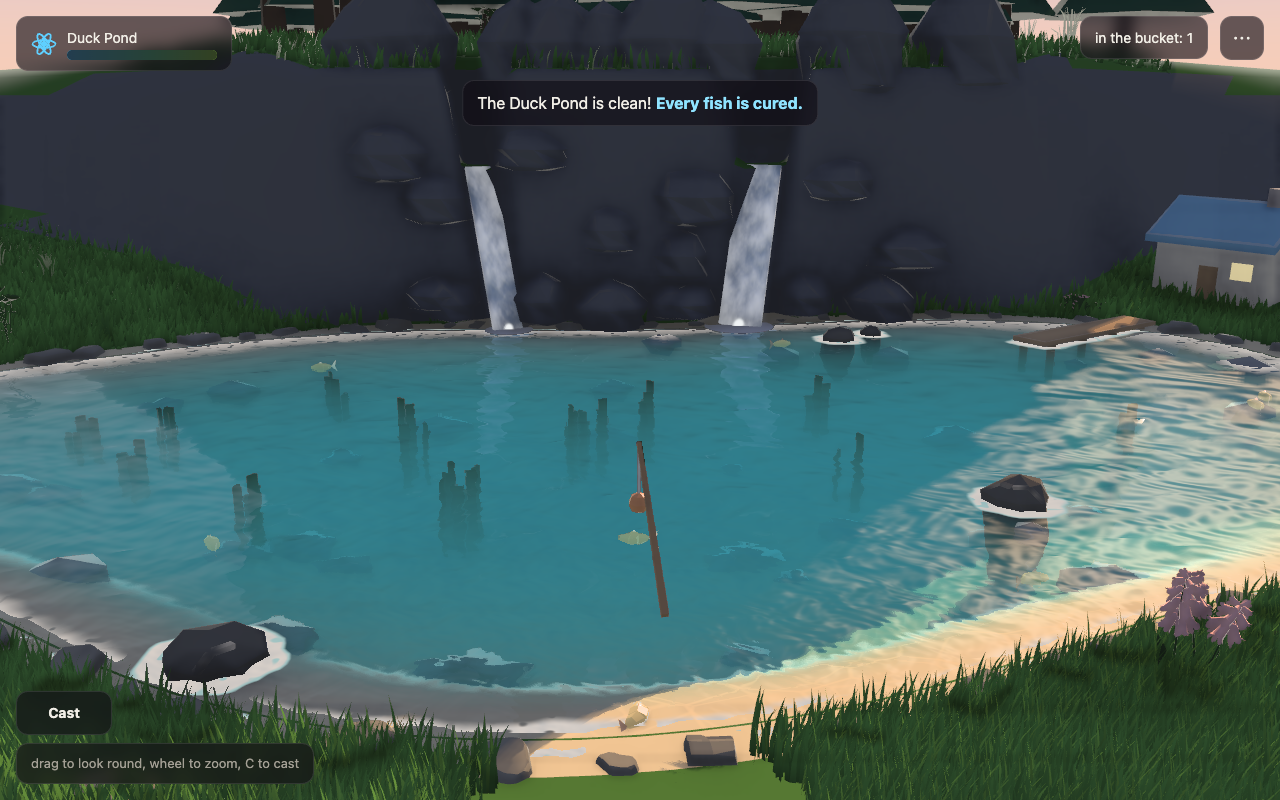
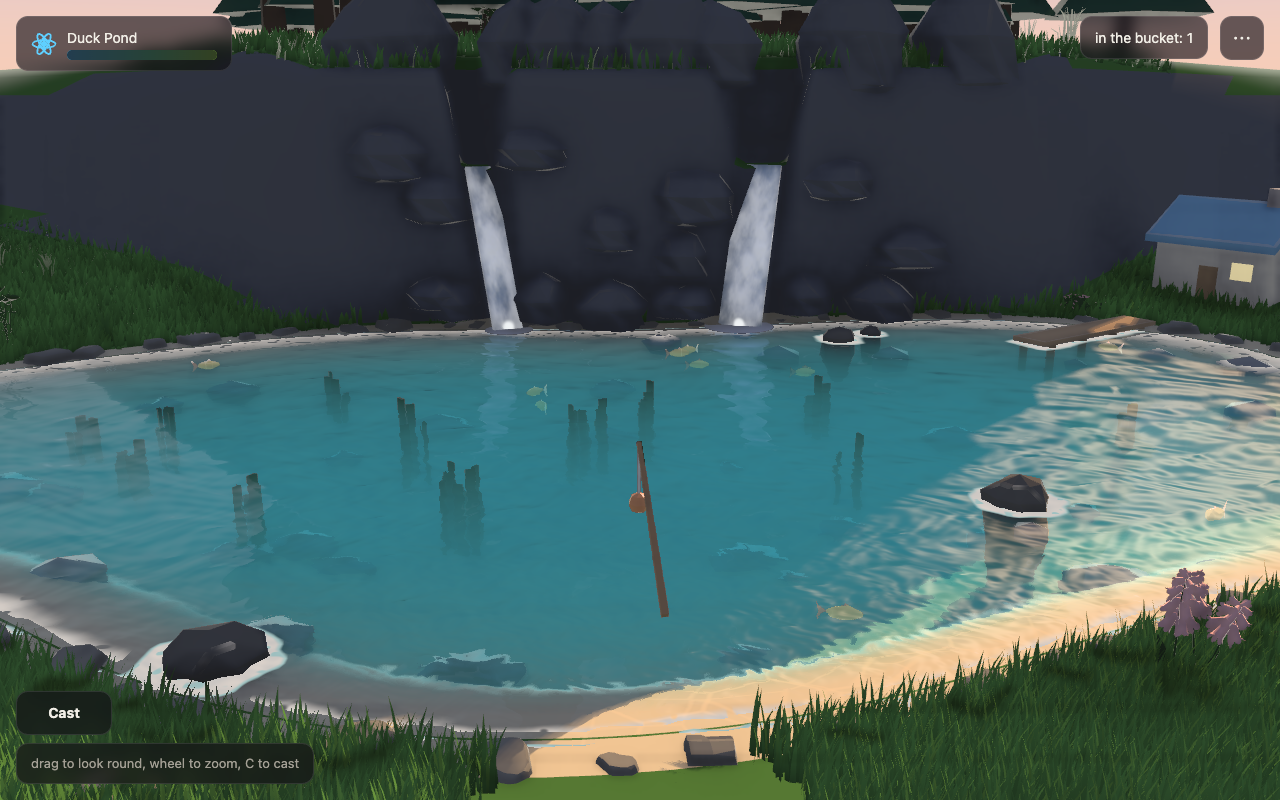
The pond is seen to heal: the water clears over half a minute after a cure, in steps too fine to see
The second part of the pond healing gradually (`docs/heal.md`). The page
draws the water, its look and a splash's droplets at `waterDirt` rounded to
`HEAL.step` (1/480 of sick to clean, worked out in one place,
`waterShown`), and hands the water's groups over only when that rounded
value moves: about forty times over a cure's thirty seconds, and never in
a frame where it has not moved, which only compares two numbers. A
handover is synchronous on each step, so a batch of steps leaves the water
where it should be, and the GPU's wait for it is shared, so handovers never
queue their waits. The gauge still counts the cures and steps at once.
`state()` tells `waterDirt`, and `waterHandovers()` counts the handovers.

Measured, headless, through a heal from five cured: the GPU frame stayed
at 4.1 to 4.7 ms against 3.9 to 4.4 with no heal (budget 8), with 42
handovers (boot, the cure and forty steps). The download rose 179 bytes.
Boot read 1,143 ms in a full check on a busy machine; timed in turn with
its parent it read 945, 911 and 961 against 1,004, 956 and 1,139, no
slower, so the quiet 756 is kept and the baseline carries the bytes only.
The bench read 30 to 45% slow while another project's tests ran, and
within 5% once the machine was quiet. The clean-pond pictures are now
taken thirty seconds after the twelfth cure, so they show the healed pond;
the "clean!" toast has gone by then, and its words are held by the
end-to-end test instead. Both were written again and looked at.
[…]

diff --git a/src/main.ts b/src/main.ts
@@ -20,9 +20,10 @@ import { Gesture, type PointerGesture } from './gesture';
 import { CastDraw, LINE_COLOURS, type Aim } from './castdraw';
 import { FISH_PARTS, FishDraw } from './fishdraw';
 import { frameCost } from './frame-cost';
+import { quantised } from './heal';
 import { castWords } from './castwords';
 import { Game, type GameEvents } from './game';
-import { PHONE, SPLASH_CAPACITY, SWIM, VIEWS, WATER_PACE, framingFor, type ViewName } from './lake';
+import { HEAL, PHONE, SPLASH_CAPACITY, SWIM, VIEWS, WATER_PACE, framingFor, type ViewName } from './lake';
 import { TIMES, bakeLooks, light, looksBaked, nearestTime, paintFor, type TimeOfDay } from './look';
 import { nextMode, orbits, wording, type Mode, type ModeEvent } from './mode';
 import { waterPoint } from './pick';
@@ -101,8 +102,8 @@ async function main() {
   const events: GameEvents = {
     splashed(x, y, size) {
       log(`splashed ${x.toFixed(1)},${y.toFixed(1)}`);
-      // the droplets thrown up, once, in the lake's colour as it is now
-      renderer.emit(splashBurst(x, y, size, game.contamination));
+      // the droplets thrown up, once, in the colour the water is drawn at (the quantised heal), so they match what they land on
+      renderer.emit(splashBurst(x, y, size, waterShown()));
     },
     nibbled: () => log('nibbled'),
     bitten: () => {
@@ -238,28 +239,60 @@ async function main() {
   /** Whether the screen was taller than wide when the camera was last put at a view. */
   let tall = false;
   let watered: number | null = null;
+  /** How many times the water's groups have been handed over since boot: a count, for the test API. */
+  let handovers = 0;
+  /** The wait on `prepare` that is under way, if one is, and how many handovers have asked for one while it ran: see `prepared`. */
+  let preparing: Promise<void> | null = null;
+  let prepareAsked = 0;
   /** How many fish were cured when the fish's groups were last handed over, since their colour and glow go over only with the groups. */
   let curedDrawn = -1;
+  /** The dirt the water is drawn at: the heal's value in whole steps, worked out here and nowhere else, so the groups and the uniforms never differ. */
+  function waterShown(): number {
+    return quantised(game.waterDirt, HEAL.step);
+  }
   /** The water's finish and the rocks' paint, at the contamination, the time and the settings as they stand: uniforms, so written on any change and nothing recompiles. */
   function finish() {
-    const water = style.clear(game.contamination, settings.caustics === 'on', time);
+    const water = style.clear(waterShown(), settings.caustics === 'on', time);
     rippleLife = water.ringLife ?? 0;
     renderer.look = { ...renderer.look, clear: water, paint: paintFor(settings.paint) };
   }
   /** The water made as clear as the game says it is: its groups and the fish's handed over again when the contamination or the number of cured fish has changed, once a change and never once a frame. */
   async function showWater() {
     const cured = game.fish.curedCount();
-    if (watered !== game.contamination || curedDrawn !== cured) {
-      watered = game.contamination;
+    const dirt = waterShown();
+    if (watered !== dirt || curedDrawn !== cured) {
+      watered = dirt;
       curedDrawn = cured;
-      const water = style.groups(game.contamination);
+      handovers++;
+      const water = style.groups(dirt);
       fishSlot = water.length;
       // what floats rides the swells the water is drawn with, at the water's own pace
       casting.surface = surfaceOf(style.waves, MM_PER_UNIT, WATER_PACE);
       renderer.setDynamic([...water, ...fish.groups(game.fish.cured), ...casting.groups()]);
     }
     finish();
-    await renderer.prepare();
+    await prepared();
+  }
+  /**
+   * `renderer.prepare()` as one wait at a time: a handover made while one is under way (a heal's steps stepped faster
+   * than the GPU settles, as the test API does) does not start a second, it asks for one more when the first ends, so
+   * the frames queue nothing and the last handover is always the one waited on.
+   */
+  function prepared(): Promise<void> {
+    if (preparing) {
+      prepareAsked++;
+      return preparing;
+    }
+    preparing = (async () => {
+      let seen: number;
+      do {
+        seen = prepareAsked;
+        await renderer.prepare();
+      } while (prepareAsked !== seen);
+    })().finally(() => {
+      preparing = null;
+    });
+    return preparing;
   }
   /** The lake made as dirty as that, and the water drawn so. */
   async function setDirt(v: number) {
@@ -616,6 +649,9 @@ async function main() {
     // play compares a name and nothing more; the environments are all baked, so this is a uniform write
     const want = nearestTime(game.timeOfDay);
     if (want !== time) void showLight(want);
+    // the water healing: handed over when the drawn value has moved a whole step, so a frame where it has not moved
+    // costs a comparison and nothing else
+    if (watered !== waterShown()) void showWater();
     // the falls' mist, on the game's own frame count: a paused lake throws none, and a step throws what it always does
     for (let i = 0; i < FALLS.length; i++) if (mistDue(frames, i)) renderer.emit(mists[i]);
   }
@@ -684,6 +720,7 @@ async function main() {
     setView: (name) => setView(name),
     looksBaked,
     drawnDirt: () => watered,
+    waterHandovers: () => handovers,
     drawnCured: () => curedDrawn,
     time: () => time.name,
     view: () => viewName,

diff --git a/smoke/progress.spec.ts b/smoke/progress.spec.ts
@@ -8,7 +8,8 @@
  * stage the game's invariants are checked.
  */
 import { expect, test, type Page } from '@playwright/test';
-import { FISH_COUNT, jettyGap } from '../src/lake';
+import { quantised } from '../src/heal';
+import { FISH_COUNT, HEAL, jettyGap } from '../src/lake';
 import { STANDARD, ready, set, start, watch } from './game';
 
 /** Play `frames` frames, and check nothing that must hold has broken. */
@@ -417,7 +418,10 @@ test('a fish cured: the welcome goes at the first cast, the card says what the t
   await api(() => window.game!.step(1));
   expect((await api(() => window.game!.state())).contamination).toBeCloseTo(11 / 12, 12);
   expect(await meter()).toBe('92');
-  expect(await api(() => window.game!.drawnDirt()), 'the water drawn a step clearer at once').toBeCloseTo(11 / 12, 12);
+  // the water is not: it heals over `HEAL.seconds`, and has hardly moved a frame in (docs/heal.md)
+  expect(await api(() => window.game!.drawnDirt()), 'the water starts to heal, not jumps').toBeGreaterThan(
+    11 / 12 + 0.05,
+  );
   expect(JSON.parse(await api(() => window.game!.save()))).toEqual({ cured: 1 });
   await expect(page.locator('#toast')).toBeVisible();
   await expect(page.locator('#toast')).toHaveText('Cured! The pond clears a little.');
@@ -484,5 +488,65 @@ test('a cure with the water already clean still hands the fish over again, gold 
   await api(() => window.game!.step(1));
   expect(await api(() => window.game!.drawnDirt()), 'the water was clear before and after').toBe(0);
   expect(await api(() => window.game!.drawnCured()), 'the twelfth is handed over gold').toBe(12);
+  expect(problems).toEqual([]);
+});
+
+test('a cure heals the water over thirty seconds in steps, the gauge stepping at once, and a paused game hands over nothing', async ({
+  page,
+}) => {
+  const problems = watch(page);
+  await start(page, { seed: 11, paused: true, save: { cured: 5 } });
+  const api = <T>(f: () => T) => page.evaluate(f);
+  const old = (await api(() => window.game!.state())).contamination;
+  expect(old).toBeCloseTo(7 / 12, 12);
+  expect(await api(() => window.game!.drawnDirt())).toBe(quantised(old, HEAL.step));
+
+  // paused with no steps: two reads of the count, across frames the page drew itself, are the same
+  const idle = await api(() => window.game!.waterHandovers());
+  await api(() => window.game!.step(0));
+  await api(() => window.game!.step(0));
+  expect(await api(() => window.game!.waterHandovers()), 'a paused page hands nothing over').toBe(idle);
+
+  expect(await api(() => window.game!.fishTo('landed'))).toBe(true);
+  await page.locator('#catch').click();
+  await api(() => window.game!.step(1));
+  const target = (await api(() => window.game!.state())).contamination;
+  expect(target).toBeCloseTo(6 / 12, 12);
+  await expect(page.locator('#pondBar')).toHaveAttribute('aria-valuenow', '50');
+  const first = (await api(() => window.game!.drawnDirt()))!;
+  expect(Math.abs(first - old), 'the water has barely moved a frame after the cure').toBeLessThanOrEqual(HEAL.step * 4);
+  const handedAtCure = await api(() => window.game!.waterHandovers());
+
+  let last = first;
+  const steps = new Set<number>();
+  for (let s = 0; s < 30; s++) {
+    await api(() => window.game!.step(60));
+    const now = (await api(() => window.game!.drawnDirt()))!;
+    expect(now, 'the water never darkens in a heal').toBeLessThanOrEqual(last);
+    expect(now).toBe(quantised(now, HEAL.step));
+    steps.add(now);
+    last = now;
+  }
+  expect(last, 'the water ends at the new contamination').toBe(quantised(target, HEAL.step));
+  expect((await api(() => window.game!.state())).waterDirt).toBe(target);
+  expect(steps.size).toBeGreaterThan(5);
+  const handovers = (await api(() => window.game!.waterHandovers())) - handedAtCure;
+  expect(handovers, 'no more than a handover a step').toBeLessThanOrEqual(1 / 12 / HEAL.step + 2);
+  expect(handovers).toBeGreaterThan(5);
+
+  // healed, the page hands nothing over for a further second
+  const done = await api(() => window.game!.waterHandovers());
+  await api(() => window.game!.step(60));
+  expect(await api(() => window.game!.waterHandovers())).toBe(done);
+  expect(await api(() => window.game!.invariants())).toEqual([]);
+  expect(problems).toEqual([]);
+});
+
+test('the lever draws the water at once, quantised', async ({ page }) => {
+  const problems = watch(page);
+  await start(page, { seed: 11, paused: true });
+  await page.evaluate(() => window.game!.dirt(0.3));
+  expect(await page.evaluate(() => window.game!.drawnDirt())).toBe(quantised(0.3, HEAL.step));
+  expect((await page.evaluate(() => window.game!.state())).waterDirt).toBe(0.3);
   expect(problems).toEqual([]);
 });

diff --git a/src/debug.ts b/src/debug.ts
@@ -48,6 +48,8 @@ export interface GameState {
   frame: number;
   paused: boolean;
   contamination: number;
+  /** The contamination the water shows, which heals toward `contamination` after a cure. */
+  waterDirt: number;
   timeOfDay: number;
 }
 
@@ -169,8 +171,10 @@ export interface GameApi {
   clock(at: number): void;
   /** How many of the four looks' environments are baked: all four once the first frame is up, so a step in play bakes none. */
   looksBaked(): number;
-  /** The contamination the water was last drawn at, which follows the game's at once when a fish is cured; null before the first. */
+  /** The contamination the water was last handed over at, in whole `HEAL.step`s, which follows the game's `waterDirt` as it heals after a cure; null before the first. */
   drawnDirt(): number | null;
+  /** How many times the water's groups have been handed over since boot. */
+  waterHandovers(): number;
   /** How many fish were cured when the fish were last handed to the renderer, which follows the school's at once when one is cured; -1 before the first. */
   drawnCured(): number;
   /** The water's caustics, on or off. */
@@ -271,6 +275,7 @@ export interface DebugHost {
   /** The lake made as dirty as that, the water drawn so. */
   setDirt(contamination: number): Promise<void>;
   drawnDirt(): number | null;
+  waterHandovers(): number;
   drawnCured(): number;
   /** The clock put at the time of that name, and the page lit as it, a name not known refused; and the look the page is lit with. */
   setTime(name: string): Promise<void>;
@@ -314,6 +319,7 @@ export function createApi(host: DebugHost): GameApi {
       frame: host.frame(),
       paused: host.paused(),
       contamination: game.contamination,
+      waterDirt: game.waterDirt,
       timeOfDay: game.timeOfDay,
     }),
     fish() {
@@ -405,6 +411,7 @@ export function createApi(host: DebugHost): GameApi {
     clock: (at) => game.setTimeOfDay(at),
     looksBaked: () => host.looksBaked(),
     drawnDirt: () => host.drawnDirt(),
+    waterHandovers: () => host.waterHandovers(),
     drawnCured: () => host.drawnCured(),
     time: ((name?: string) => (name === undefined ? host.time() : host.setTime(name))) as GameApi['time'],
     view: ((name?: string) => (name === undefined ? host.view() : host.setView(name))) as GameApi['view'],

diff --git a/smoke/look.spec.ts b/smoke/look.spec.ts
@@ -18,6 +18,7 @@
  * `test-results/`. Look at all three before deciding which is right.
  */
 import { expect, test, type Page } from '@playwright/test';
+import { HEAL } from '../src/lake';
 import { CAST_SHOT, PICTURES, STANDARD, hideOverlays, set, splashing, start, watch } from './game';
 import { GRASS_WOBBLE, pixelsApart } from './judging';
 import { connect, openPhone, pairingFromOverlay } from './phoneside';
@@ -365,6 +366,8 @@ async function pond(page: Page, scene: 'welcome' | 'playing' | 'clean') {
     await page.locator('#catch').click();
     await page.evaluate(() => window.game!.step(1));
     await expect(page.locator('#toast')).toContainText('The Duck Pond is clean!');
+    // the water heals to the cure's level over `HEAL.seconds`, so the clean pond is pictured after the heal
+    await page.evaluate((n) => window.game!.step(n), HEAL.seconds * 60);
   }
 }
 

diff --git a/docs/heal.md b/docs/heal.md
@@ -124,7 +124,7 @@ without a handover (a package change, which would allow every frame).
 
 - [x] 1. **The heal in the game:** `heal.ts`, `HEAL`, `Game.waterDirt`, the invariants and the hash. Check: unit
       tests seen failing first, `check:quick`, fuzz on seeds 1 to 24.
-- [ ] 2. **The page draws the heal:** quantised drawing, the handover only on a step, droplets, `state()` and the
+- [x] 2. **The page draws the heal:** quantised drawing, the handover only on a step, droplets, `state()` and the
       handover count. Check: the end-to-end steps.
 - [ ] 3. **The pass:** the full check, the frame during a heal measured, pictures (`healing` new, clean ones
       re-taken after the heal) looked at, the mutations, `CLAUDE.md`, `docs/heal.md` and the report.
